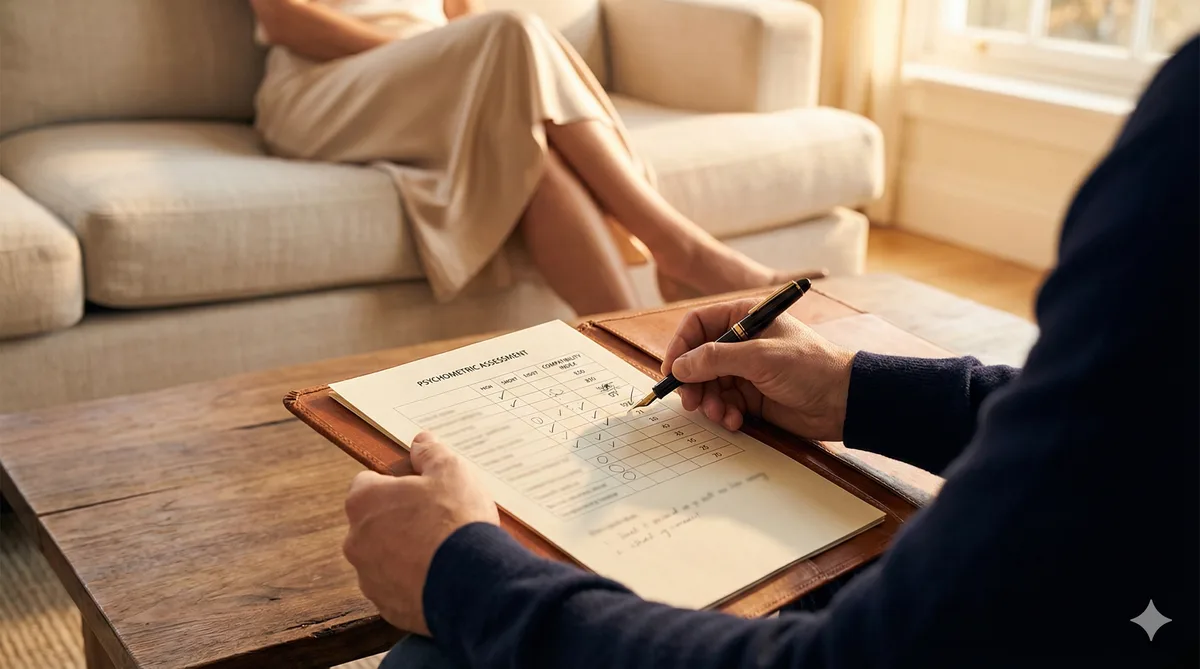
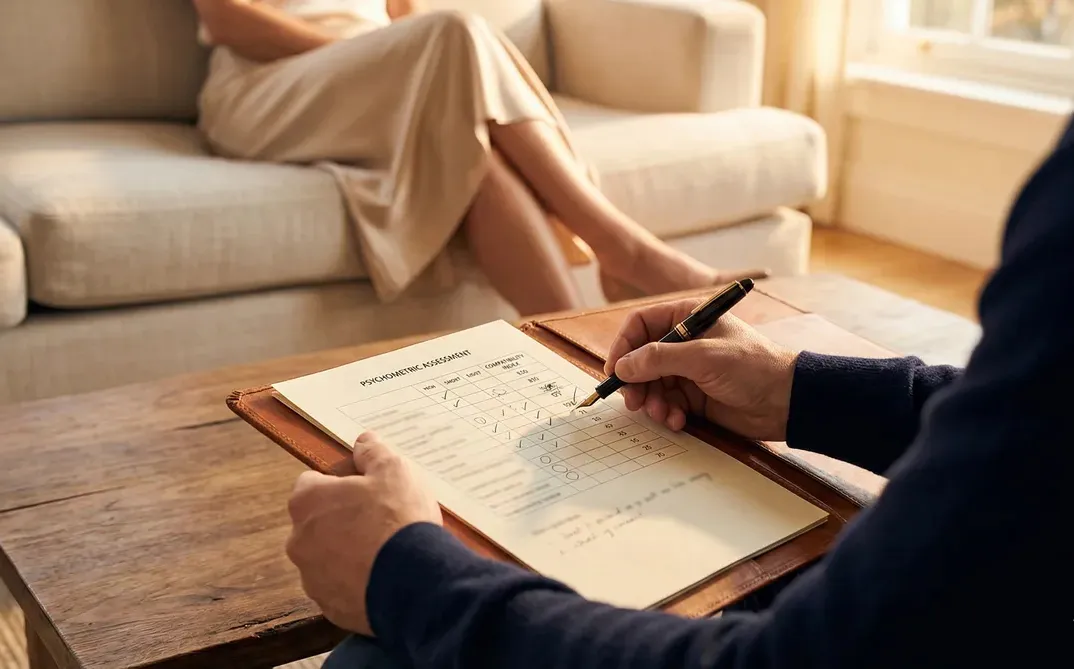
Replace assessment and retreat photos, update build config
- Convert new cropped photos (assessment1.jpg, retreat1.jpg) to WebP
- Update image dimensions in partner-search and couples-retreat pages
- Add trailingSlash to Next.js config, switch to CI workflow
- Move to dynamic sitemap generation, extract site constants
- Simplify cache headers

diff --git a/src/app/(with-footer)/couples-retreat/page.tsx b/src/app/(with-footer)/couples-retreat/page.tsx
@@ -4,13 +4,14 @@ import FadeIn from "@/components/FadeIn/FadeIn";
 import ArrowLink from "@/components/ArrowLink/ArrowLink";
 import SectionHeader from "@/components/SectionHeader/SectionHeader";
 import ComparisonColumns from "@/components/ComparisonColumns/ComparisonColumns";
+import { SITE } from "@/lib/constants";
 import styles from "./page.module.css";
 
 export const metadata: Metadata = {
   title: "Couples Retreat",
   description:
     "Multi-day private training program for driven couples to develop advanced relational skills, preserve family legacy, and deepen partnership mastery.",
-  alternates: { canonical: "/couples-retreat" },
+  alternates: { canonical: "/couples-retreat/" },
 };
 
 const jsonLd = {
@@ -22,10 +23,10 @@ const jsonLd = {
   provider: {
     "@type": "ProfessionalService",
     name: "Valence",
-    url: "https://valenceprivate.com",
+    url: SITE.url,
   },
   areaServed: ["New York City", "Aspen"],
-  url: "https://valenceprivate.com/couples-retreat",
+  url: `${SITE.url}/couples-retreat/`,
 };
 
 export default function CouplesRetreatPage() {
@@ -113,8 +114,8 @@ export default function CouplesRetreatPage() {
           <Image
             src="/images/retreat.webp"
             alt="Luxury retreat with mountain views"
-            width={600}
-            height={400}
+            width={1018}
+            height={661}
             unoptimized
             className={styles.accentImage}
           />

diff --git a/src/app/(with-footer)/partner-search/page.tsx b/src/app/(with-footer)/partner-search/page.tsx
@@ -4,13 +4,14 @@ import FadeIn from "@/components/FadeIn/FadeIn";
 import ArrowLink from "@/components/ArrowLink/ArrowLink";
 import SectionHeader from "@/components/SectionHeader/SectionHeader";
 import PhaseCard from "@/components/PhaseCard/PhaseCard";
+import { SITE } from "@/lib/constants";
 import styles from "./page.module.css";
 
 export const metadata: Metadata = {
   title: "Partner Search",
   description:
     "Psychologically curated matchmaking and rigorous screening for lifetime partnership. Headhunting for your personal life.",
-  alternates: { canonical: "/partner-search" },
+  alternates: { canonical: "/partner-search/" },
 };
 
 const jsonLd = {
@@ -22,10 +23,10 @@ const jsonLd = {
   provider: {
     "@type": "ProfessionalService",
     name: "Valence",
-    url: "https://valenceprivate.com",
+    url: SITE.url,
   },
   areaServed: ["New York City", "Aspen"],
-  url: "https://valenceprivate.com/partner-search",
+  url: `${SITE.url}/partner-search/`,
 };
 
 export default function PartnerSearchPage() {
@@ -70,8 +71,8 @@ export default function PartnerSearchPage() {
           <Image
             src="/images/assessment.webp"
             alt="Partner assessment consultation"
-            width={600}
-            height={400}
+            width={1074}
+            height={669}
             unoptimized
             className={styles.accentImage}
           />

diff --git a/src/app/sitemap.ts b/src/app/sitemap.ts
@@ -1,0 +1,41 @@
+import type { MetadataRoute } from "next";
+import { SITE } from "@/lib/constants";
+
+export const dynamic = "force-static";
+
+export default function sitemap(): MetadataRoute.Sitemap {
+  const lastModified = new Date();
+
+  return [
+    {
+      url: `${SITE.url}/`,
+      lastModified,
+      changeFrequency: "monthly",
+      priority: 1.0,
+    },
+    {
+      url: `${SITE.url}/about/`,
+      lastModified,
+      changeFrequency: "monthly",
+      priority: 0.8,
+    },
+    {
+      url: `${SITE.url}/couples-retreat/`,
+      lastModified,
+      changeFrequency: "monthly",
+      priority: 0.8,
+    },
+    {
+      url: `${SITE.url}/partner-search/`,
+      lastModified,
+      changeFrequency: "monthly",
+      priority: 0.8,
+    },
+    {
+      url: `${SITE.url}/inquire/`,
+      lastModified,
+      changeFrequency: "monthly",
+      priority: 0.9,
+    },
+  ];
+}

diff --git a/src/app/(with-footer)/about/page.tsx b/src/app/(with-footer)/about/page.tsx
@@ -8,7 +8,7 @@ export const metadata: Metadata = {
   title: "About",
   description:
     "Samuel Dunlap — Relationship Advisor & Researcher. Ranked #1 therapist on Google in NYC. 10,000+ hours advising 300+ high-performing clients.",
-  alternates: { canonical: "/about" },
+  alternates: { canonical: "/about/" },
 };
 
 export default function AboutPage() {

diff --git a/src/app/(no-footer)/inquire/page.tsx b/src/app/(no-footer)/inquire/page.tsx
@@ -6,7 +6,7 @@ export const metadata: Metadata = {
   title: "Inquire",
   description:
     "Request a confidential introduction to Valence Private Relationship Advisory. Response within 24 hours.",
-  alternates: { canonical: "/inquire" },
+  alternates: { canonical: "/inquire/" },
 };
 
 export default function InquirePage() {

diff --git a/next.config.ts b/next.config.ts
@@ -2,6 +2,7 @@ import type { NextConfig } from "next";
 
 const nextConfig: NextConfig = {
   output: "export",
+  trailingSlash: true,
   images: {
     unoptimized: true,
   },
